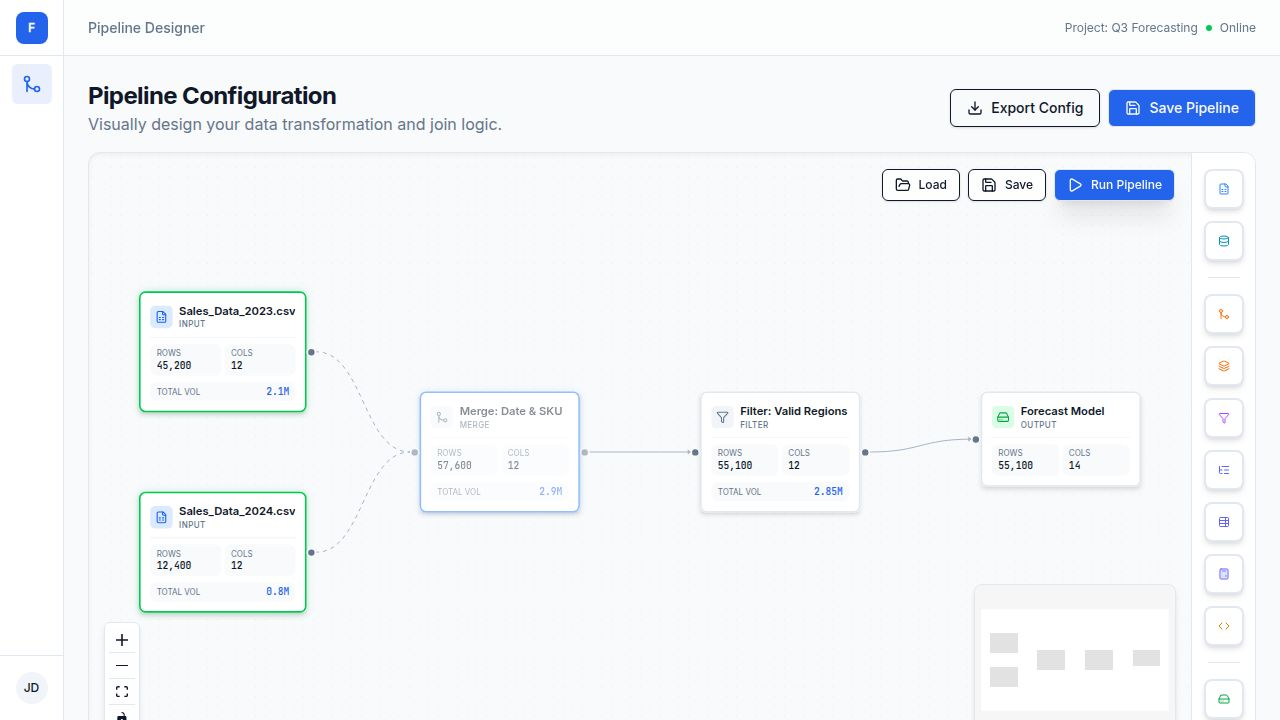
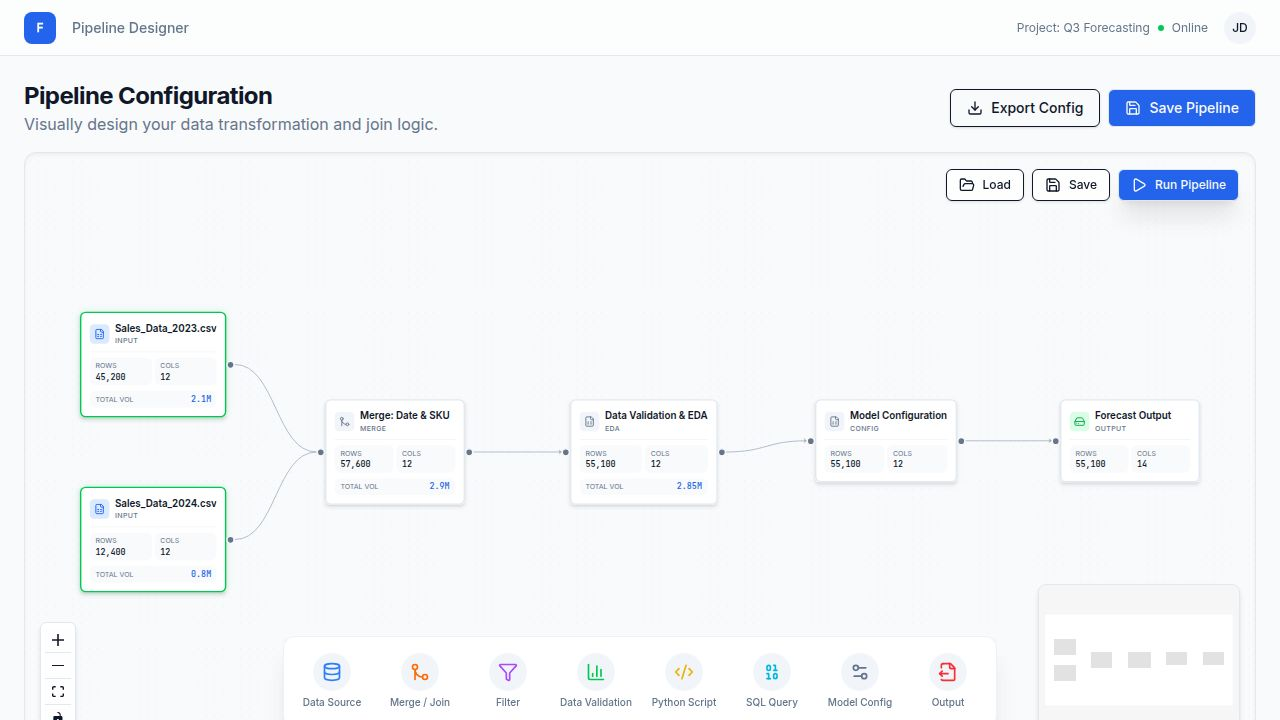
Add backend database integration for pipelines and datasets
Integrates PostgreSQL database using Drizzle ORM, defining schemas for users, pipelines, and datasets. Implements CRUD operations in `storage.ts` and sets up database connection in `db/index.ts`.

Replit-Commit-Author: Agent
Replit-Commit-Session-Id: f4e364fc-2edc-4b5f-a9ef-73fc8cd0b48c
Replit-Commit-Checkpoint-Type: intermediate_checkpoint
Replit-Commit-Event-Id: c18c27d1-b2da-4456-a7e9-e9f3cd024101
Replit-Commit-Screenshot-Url: https://storage.googleapis.com/screenshot-production-us-central1/56711518-5641-4e68-9442-812674baa471/f4e364fc-2edc-4b5f-a9ef-73fc8cd0b48c/iQf6tNy
Replit-Helium-Checkpoint-Created: true

diff --git a/server/storage.ts b/server/storage.ts
@@ -1,38 +1,93 @@
-import { type User, type InsertUser } from "@shared/schema";
+import { type User, type InsertUser, type Pipeline, type InsertPipeline, type Dataset, type InsertDataset } from "@shared/schema";
 import { randomUUID } from "crypto";
-
-// modify the interface with any CRUD methods
-// you might need
+import { db } from "../db";
+import { users, pipelines, datasets } from "@shared/schema";
+import { eq, desc } from "drizzle-orm";
 
 export interface IStorage {
+  // Users
   getUser(id: string): Promise<User | undefined>;
   getUserByUsername(username: string): Promise<User | undefined>;
   createUser(user: InsertUser): Promise<User>;
+
+  // Pipelines
+  getPipelines(): Promise<Pipeline[]>;
+  getPipeline(id: string): Promise<Pipeline | undefined>;
+  createPipeline(pipeline: InsertPipeline): Promise<Pipeline>;
+  updatePipeline(id: string, pipeline: Partial<InsertPipeline>): Promise<Pipeline | undefined>;
+  deletePipeline(id: string): Promise<boolean>;
+
+  // Datasets
+  getDatasets(): Promise<Dataset[]>;
+  getDataset(id: string): Promise<Dataset | undefined>;
+  createDataset(dataset: InsertDataset): Promise<Dataset>;
+  deleteDataset(id: string): Promise<boolean>;
 }
 
-export class MemStorage implements IStorage {
-  private users: Map<string, User>;
-
-  constructor() {
-    this.users = new Map();
-  }
-
+export class DbStorage implements IStorage {
+  // Users
   async getUser(id: string): Promise<User | undefined> {
-    return this.users.get(id);
+    const result = await db.select().from(users).where(eq(users.id, id)).limit(1);
+    return result[0];
   }
 
   async getUserByUsername(username: string): Promise<User | undefined> {
-    return Array.from(this.users.values()).find(
-      (user) => user.username === username,
-    );
+    const result = await db.select().from(users).where(eq(users.username, username)).limit(1);
+    return result[0];
   }
 
   async createUser(insertUser: InsertUser): Promise<User> {
-    const id = randomUUID();
-    const user: User = { ...insertUser, id };
-    this.users.set(id, user);
-    return user;
+    const result = await db.insert(users).values(insertUser).returning();
+    return result[0];
+  }
+
+  // Pipelines
+  async getPipelines(): Promise<Pipeline[]> {
+    return await db.select().from(pipelines).orderBy(desc(pipelines.updatedAt));
+  }
+
+  async getPipeline(id: string): Promise<Pipeline | undefined> {
+    const result = await db.select().from(pipelines).where(eq(pipelines.id, id)).limit(1);
+    return result[0];
+  }
+
+  async createPipeline(pipeline: InsertPipeline): Promise<Pipeline> {
+    const result = await db.insert(pipelines).values(pipeline).returning();
+    return result[0];
+  }
+
+  async updatePipeline(id: string, pipeline: Partial<InsertPipeline>): Promise<Pipeline | undefined> {
+    const result = await db.update(pipelines)
+      .set({ ...pipeline, updatedAt: new Date() })
+      .where(eq(pipelines.id, id))
+      .returning();
+    return result[0];
+  }
+
+  async deletePipeline(id: string): Promise<boolean> {
+    const result = await db.delete(pipelines).where(eq(pipelines.id, id)).returning();
+    return result.length > 0;
+  }
+
+  // Datasets
+  async getDatasets(): Promise<Dataset[]> {
+    return await db.select().from(datasets).orderBy(desc(datasets.uploadedAt));
+  }
+
+  async getDataset(id: string): Promise<Dataset | undefined> {
+    const result = await db.select().from(datasets).where(eq(datasets.id, id)).limit(1);
+    return result[0];
+  }
+
+  async createDataset(dataset: InsertDataset): Promise<Dataset> {
+    const result = await db.insert(datasets).values(dataset).returning();
+    return result[0];
+  }
+
+  async deleteDataset(id: string): Promise<boolean> {
+    const result = await db.delete(datasets).where(eq(datasets.id, id)).returning();
+    return result.length > 0;
   }
 }
 
-export const storage = new MemStorage();
+export const storage = new DbStorage();

diff --git a/shared/schema.ts b/shared/schema.ts
@@ -1,5 +1,5 @@
 import { sql } from "drizzle-orm";
-import { pgTable, text, varchar } from "drizzle-orm/pg-core";
+import { pgTable, text, varchar, jsonb, timestamp, integer } from "drizzle-orm/pg-core";
 import { createInsertSchema } from "drizzle-zod";
 import { z } from "zod";
 
@@ -9,10 +9,46 @@ export const users = pgTable("users", {
   password: text("password").notNull(),
 });
 
-export const insertUserSchema = createInsertSchema(users).pick({
-  username: true,
-  password: true,
+export const pipelines = pgTable("pipelines", {
+  id: varchar("id").primaryKey().default(sql`gen_random_uuid()`),
+  name: text("name").notNull(),
+  description: text("description"),
+  nodes: jsonb("nodes").notNull().default('[]'),
+  edges: jsonb("edges").notNull().default('[]'),
+  createdAt: timestamp("created_at").notNull().defaultNow(),
+  updatedAt: timestamp("updated_at").notNull().defaultNow(),
+});
+
+export const datasets = pgTable("datasets", {
+  id: varchar("id").primaryKey().default(sql`gen_random_uuid()`),
+  filename: text("filename").notNull(),
+  filepath: text("filepath").notNull(),
+  rows: integer("rows").notNull().default(0),
+  cols: integer("cols").notNull().default(0),
+  size: integer("size").notNull().default(0),
+  uploadedAt: timestamp("uploaded_at").notNull().defaultNow(),
+});
+
+export const insertUserSchema = createInsertSchema(users).omit({
+  id: true,
+});
+
+export const insertPipelineSchema = createInsertSchema(pipelines).omit({
+  id: true,
+  createdAt: true,
+  updatedAt: true,
+});
+
+export const insertDatasetSchema = createInsertSchema(datasets).omit({
+  id: true,
+  uploadedAt: true,
 });
 
 export type InsertUser = z.infer<typeof insertUserSchema>;
 export type User = typeof users.$inferSelect;
+
+export type InsertPipeline = z.infer<typeof insertPipelineSchema>;
+export type Pipeline = typeof pipelines.$inferSelect;
+
+export type InsertDataset = z.infer<typeof insertDatasetSchema>;
+export type Dataset = typeof datasets.$inferSelect;

diff --git a/db/index.ts b/db/index.ts
@@ -1,0 +1,10 @@
+import { drizzle } from 'drizzle-orm/node-postgres';
+import * as schema from '@shared/schema';
+
+if (!process.env.DATABASE_URL) {
+  throw new Error(
+    "DATABASE_URL must be set. Did you forget to provision a database?",
+  );
+}
+
+export const db = drizzle(process.env.DATABASE_URL, { schema });